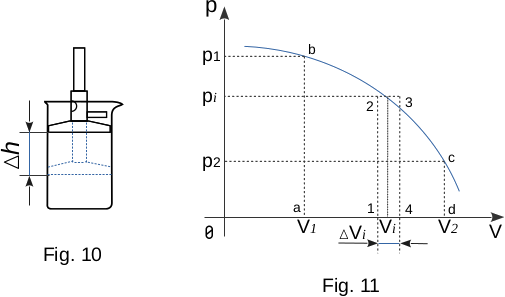
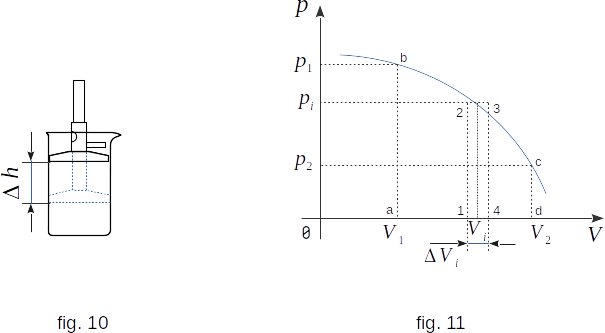
June 27 2020

diff --git a/book3/chapter1/book3-12.html b/book3/chapter1/book3-12.html
@@ -63,11 +63,12 @@
 
         <p>Now we will learn more about the process of changing the state of the body or body system. There are two significantly different types of effects that lead to changes in the state of bodies. First of these is to perform the work.</p>
 
-        <div class="mx-auto d-block mt-5 mb-4" style="width: 30rem;">
-          <img src="../common/img/book3-pic6.png" class="card-img-top" alt="...">
-        </div>
+        <br>
+        <div class="mx-auto d-block mt-4 mb-4 text-center">
+          <img src="../common/img/book3-pic6.png" class="img-fluid" alt="...">
+        </div><br>
 
-        <p>Assume that the system under consideration is the gas in the cylinder under the piston (Fig. 10). You can change the volume, pressure and temperature of the gas by moving the piston down. In this case, the change in gas state is a result of macroscopic movement of the body (piston) acting on the system. In this case, the force with which the piston acts on the gas, performs the work. Let's calculate this work.<br>From the gas side, the force acts on the piston</p>
+        <p>Assume that the system under consideration is the gas in the cylinder under the piston (fig. 10). You can change the volume, pressure and temperature of the gas by moving the piston down. In this case, the change in gas state is a result of macroscopic movement of the body (piston) acting on the system. In this case, the force with which the piston acts on the gas, performs the work. Let's calculate this work.<br>From the gas side, the force acts on the piston</p>
 
         <p><h5 class="text-center">\( F = pA \) <span class="float-right">(1-13)</span></h5></p>
 
@@ -89,7 +90,7 @@
 
         <p>To calculate the work when changing the volume to a finite (not as small as we like) value we need to sum up the elementary work (1-14). Only if \( p = const \) equation (1-14) is valid for large volume changes.</p>
 
-        <p>The work that the body does when it changes volume can be understood visually. If you draw a graph of the volume dependence from pressure (Fig. 11), the area limited by this graph, with the axis \( V \) and the sections \( ab \) and \( cd \) which equal to the pressures \( p1 \) in the initial and \( p2 \) in the final states, will be numerically equal to the work with the volume change from \( V_1 \) to \( V_2 \). In fact, the work at small changes in the volume \( \Delta V \) is numerically equal to the area of the rectangle \( 1-2-3-4 \), because \( W'_i = p_i \Delta V_i \) (where \(p_i \) is pressure at volume \( V_i \)). The full area of the figure \( a-b-c-d \) can be considered as the sum of the areas of these elementary rectangles.</p>
+        <p>The work that the body does when it changes volume can be understood visually. If you draw a graph of the volume dependence from pressure (fig. 11), the area limited by this graph, with the axis \( V \) and the sections \( ab \) and \( cd \) which equal to the pressures \( p1 \) in the initial and \( p2 \) in the final states, will be numerically equal to the work with the volume change from \( V_1 \) to \( V_2 \). In fact, the work at small changes in the volume \( \Delta V \) is numerically equal to the area of the rectangle \( 1-2-3-4 \), because \( W'_i = p_i \Delta V_i \) (where \(p_i \) is pressure at volume \( V_i \)). The full area of the figure \( a-b-c-d \) can be considered as the sum of the areas of these elementary rectangles.</p>
 
       </div><!-- /.blog-post -->
 
@@ -125,6 +126,12 @@
     </aside><!-- /.blog-sidebar -->
 
   </div><!-- /.row -->
+
+  <div class="blog-pagination">
+    <div class="btn"><a href="../chapter1/book3-11.html" class="text-muted">11. Equilibrium and non-equilibrium processes \(\ll\)</a></div>
+    <div class="btn"><a href="../chapter1/book3-12.html" class="text-muted">12. Work in Thermodynamics</a></div>
+    <div class="btn"><a href="../chapter1/book3-13.html" class="text-muted">\(\gg\) 13. Quantity of heat transferred</a></div>
+  </div>
 
 </main><!-- /.container -->
 

diff --git a/book3/chapter1/book3-10.html b/book3/chapter1/book3-10.html
@@ -139,7 +139,7 @@
   <p class="mb-2"><a href="../chapter1/book3-8.html" class="text-muted">8. Avogadro law</a></p>
   <p class="mb-2"><a href="../chapter1/book3-9.html" class="text-muted">9. Absolute temperature</a></p>
   <p class="mb-2"><a href="../chapter1/book3-10.html" class="text-info">10. Ideal gas equation of state</a></p>
-  <p class="mb-2"><a href="../chapter1/book3-11.html" class="text-muted">11. Equilibrium (reversible) and non-equilibrium (irreversible) processes</a></p>
+  <p class="mb-2"><a href="../chapter1/book3-11.html" class="text-muted">11. Equilibrium and non-equilibrium processes</a></p>
   <p class="mb-2"><a href="../chapter1/book3-12.html" class="text-muted">12. Work in Thermodynamics</a></p>
   <p class="mb-2"><a href="../chapter1/book3-13.html" class="text-muted">13. Quantity of heat transferred</a></p>
   <p class="mb-2"><a href="../chapter1/book3-14.html" class="text-muted">14. Heat capacity</a></p>
@@ -156,6 +156,12 @@
     </aside><!-- /.blog-sidebar -->
 
   </div><!-- /.row -->
+
+  <div class="blog-pagination">
+    <div class="btn"><a href="../chapter1/book3-9.html" class="text-muted">9. Absolute temperature \(\ll\)</a></div>
+    <div class="btn"><a href="../chapter1/book3-10.html" class="text-muted">10. Ideal gas equation of state</a></div>
+    <div class="btn"><a href="../chapter1/book3-11.html" class="text-muted">\(\gg\) 11. Equilibrium and non-equilibrium processes</a></div>
+  </div>
 
 </main><!-- /.container -->
 

diff --git a/book3/chapter1/book3-5.html b/book3/chapter1/book3-5.html
@@ -107,7 +107,7 @@
   <p class="mb-2"><a href="../chapter1/book3-8.html" class="text-muted">8. Avogadro law</a></p>
   <p class="mb-2"><a href="../chapter1/book3-9.html" class="text-muted">9. Absolute temperature</a></p>
   <p class="mb-2"><a href="../chapter1/book3-10.html" class="text-muted">10. Ideal gas equation of state</a></p>
-  <p class="mb-2"><a href="../chapter1/book3-11.html" class="text-muted">11. Equilibrium (reversible) and non-equilibrium (irreversible) processes</a></p>
+  <p class="mb-2"><a href="../chapter1/book3-11.html" class="text-muted">11. Equilibrium and non-equilibrium processes</a></p>
   <p class="mb-2"><a href="../chapter1/book3-12.html" class="text-muted">12. Work in Thermodynamics</a></p>
   <p class="mb-2"><a href="../chapter1/book3-13.html" class="text-muted">13. Quantity of heat transferred</a></p>
   <p class="mb-2"><a href="../chapter1/book3-14.html" class="text-muted">14. Heat capacity</a></p>
@@ -124,6 +124,12 @@
     </aside><!-- /.blog-sidebar -->
 
   </div><!-- /.row -->
+
+  <div class="blog-pagination">
+    <div class="btn"><a href="../chapter1/book3-4.html" class="text-muted">4. Equation of state \(\ll\)</a></div>
+    <div class="btn"><a href="../chapter1/book3-5.html" class="text-muted">5. Gas laws. Boyle-Mariotte law</a></div>
+    <div class="btn"><a href="../chapter1/book3-6.html" class="text-muted">\(\gg\) 6. Charles's law</a></div>
+  </div>
 
 </main><!-- /.container -->
 

diff --git a/book3/chapter1/book3-9.html b/book3/chapter1/book3-9.html
@@ -93,7 +93,7 @@
   <p class="mb-2"><a href="../chapter1/book3-8.html" class="text-muted">8. Avogadro law</a></p>
   <p class="mb-2"><a href="../chapter1/book3-9.html" class="text-info">9. Absolute temperature</a></p>
   <p class="mb-2"><a href="../chapter1/book3-10.html" class="text-muted">10. Ideal gas equation of state</a></p>
-  <p class="mb-2"><a href="../chapter1/book3-11.html" class="text-muted">11. Equilibrium (reversible) and non-equilibrium (irreversible) processes</a></p>
+  <p class="mb-2"><a href="../chapter1/book3-11.html" class="text-muted">11. Equilibrium and non-equilibrium processes</a></p>
   <p class="mb-2"><a href="../chapter1/book3-12.html" class="text-muted">12. Work in Thermodynamics</a></p>
   <p class="mb-2"><a href="../chapter1/book3-13.html" class="text-muted">13. Quantity of heat transferred</a></p>
   <p class="mb-2"><a href="../chapter1/book3-14.html" class="text-muted">14. Heat capacity</a></p>
@@ -110,6 +110,12 @@
     </aside><!-- /.blog-sidebar -->
 
   </div><!-- /.row -->
+
+  <div class="blog-pagination">
+    <div class="btn"><a href="../chapter1/book3-8.html" class="text-muted">8. Avogadro law \(\ll\)</a></div>
+    <div class="btn"><a href="../chapter1/book3-9.html" class="text-muted">9. Absolute temperature</a></div>
+    <div class="btn"><a href="../chapter1/book3-10.html" class="text-muted">\(\gg\) 10. Ideal gas equation of state</a></div>
+  </div>
 
 </main><!-- /.container -->
 

diff --git a/book3/chapter1/book3-6.html b/book3/chapter1/book3-6.html
@@ -102,7 +102,7 @@
   <p class="mb-2"><a href="../chapter1/book3-8.html" class="text-muted">8. Avogadro law</a></p>
   <p class="mb-2"><a href="../chapter1/book3-9.html" class="text-muted">9. Absolute temperature</a></p>
   <p class="mb-2"><a href="../chapter1/book3-10.html" class="text-muted">10. Ideal gas equation of state</a></p>
-  <p class="mb-2"><a href="../chapter1/book3-11.html" class="text-muted">11. Equilibrium (reversible) and non-equilibrium (irreversible) processes</a></p>
+  <p class="mb-2"><a href="../chapter1/book3-11.html" class="text-muted">11. Equilibrium and non-equilibrium processes</a></p>
   <p class="mb-2"><a href="../chapter1/book3-12.html" class="text-muted">12. Work in Thermodynamics</a></p>
   <p class="mb-2"><a href="../chapter1/book3-13.html" class="text-muted">13. Quantity of heat transferred</a></p>
   <p class="mb-2"><a href="../chapter1/book3-14.html" class="text-muted">14. Heat capacity</a></p>
@@ -119,6 +119,12 @@
     </aside><!-- /.blog-sidebar -->
 
   </div><!-- /.row -->
+
+  <div class="blog-pagination">
+    <div class="btn"><a href="../chapter1/book3-5.html" class="text-muted">5. Gas laws. Boyle-Mariotte law \(\ll\)</a></div>
+    <div class="btn"><a href="../chapter1/book3-6.html" class="text-muted">6. Charles's law</a></div>
+    <div class="btn"><a href="../chapter1/book3-7.html" class="text-muted">\(\gg\) 7. Dalton's law</a></div>
+  </div>
 
 </main><!-- /.container -->
 

diff --git a/book3/chapter1/book3-8.html b/book3/chapter1/book3-8.html
@@ -125,7 +125,7 @@
   <p class="mb-2"><a href="../chapter1/book3-8.html" class="text-info">8. Avogadro law</a></p>
   <p class="mb-2"><a href="../chapter1/book3-9.html" class="text-muted">9. Absolute temperature</a></p>
   <p class="mb-2"><a href="../chapter1/book3-10.html" class="text-muted">10. Ideal gas equation of state</a></p>
-  <p class="mb-2"><a href="../chapter1/book3-11.html" class="text-muted">11. Equilibrium (reversible) and non-equilibrium (irreversible) processes</a></p>
+  <p class="mb-2"><a href="../chapter1/book3-11.html" class="text-muted">11. Equilibrium and non-equilibrium processes</a></p>
   <p class="mb-2"><a href="../chapter1/book3-12.html" class="text-muted">12. Work in Thermodynamics</a></p>
   <p class="mb-2"><a href="../chapter1/book3-13.html" class="text-muted">13. Quantity of heat transferred</a></p>
   <p class="mb-2"><a href="../chapter1/book3-14.html" class="text-muted">14. Heat capacity</a></p>
@@ -142,6 +142,12 @@
     </aside><!-- /.blog-sidebar -->
 
   </div><!-- /.row -->
+
+  <div class="blog-pagination">
+    <div class="btn"><a href="../chapter1/book3-7.html" class="text-muted">7. Dalton's law \(\ll\)</a></div>
+    <div class="btn"><a href="../chapter1/book3-8.html" class="text-muted">8. Avogadro law</a></div>
+    <div class="btn"><a href="../chapter1/book3-9.html" class="text-muted">\(\gg\) 9. Absolute temperature</a></div>
+  </div>
 
 </main><!-- /.container -->
 

diff --git a/book3/chapter1/book3-7.html b/book3/chapter1/book3-7.html
@@ -86,7 +86,7 @@
   <p class="mb-2"><a href="../chapter1/book3-8.html" class="text-muted">8. Avogadro law</a></p>
   <p class="mb-2"><a href="../chapter1/book3-9.html" class="text-muted">9. Absolute temperature</a></p>
   <p class="mb-2"><a href="../chapter1/book3-10.html" class="text-muted">10. Ideal gas equation of state</a></p>
-  <p class="mb-2"><a href="../chapter1/book3-11.html" class="text-muted">11. Equilibrium (reversible) and non-equilibrium (irreversible) processes</a></p>
+  <p class="mb-2"><a href="../chapter1/book3-11.html" class="text-muted">11. Equilibrium and non-equilibrium processes</a></p>
   <p class="mb-2"><a href="../chapter1/book3-12.html" class="text-muted">12. Work in Thermodynamics</a></p>
   <p class="mb-2"><a href="../chapter1/book3-13.html" class="text-muted">13. Quantity of heat transferred</a></p>
   <p class="mb-2"><a href="../chapter1/book3-14.html" class="text-muted">14. Heat capacity</a></p>
@@ -103,6 +103,12 @@
     </aside><!-- /.blog-sidebar -->
 
   </div><!-- /.row -->
+
+  <div class="blog-pagination">
+    <div class="btn"><a href="../chapter1/book3-6.html" class="text-muted">6. Charles's law \(\ll\)</a></div>
+    <div class="btn"><a href="../chapter1/book3-7.html" class="text-muted">7. Dalton's law</a></div>
+    <div class="btn"><a href="../chapter1/book3-8.html" class="text-muted">\(\gg\) 8. Avogadro law</a></div>
+  </div>
 
 </main><!-- /.container -->
 

diff --git a/book3/chapter1/book3-2.html b/book3/chapter1/book3-2.html
@@ -100,7 +100,7 @@
   <p class="mb-2"><a href="../chapter1/book3-8.html" class="text-muted">8. Avogadro law</a></p>
   <p class="mb-2"><a href="../chapter1/book3-9.html" class="text-muted">9. Absolute temperature</a></p>
   <p class="mb-2"><a href="../chapter1/book3-10.html" class="text-muted">10. Ideal gas equation of state</a></p>
-  <p class="mb-2"><a href="../chapter1/book3-11.html" class="text-muted">11. Equilibrium (reversible) and non-equilibrium (irreversible) processes</a></p>
+  <p class="mb-2"><a href="../chapter1/book3-11.html" class="text-muted">11. Equilibrium and non-equilibrium processes</a></p>
   <p class="mb-2"><a href="../chapter1/book3-12.html" class="text-muted">12. Work in Thermodynamics</a></p>
   <p class="mb-2"><a href="../chapter1/book3-13.html" class="text-muted">13. Quantity of heat transferred</a></p>
   <p class="mb-2"><a href="../chapter1/book3-14.html" class="text-muted">14. Heat capacity</a></p>

diff --git a/book3/chapter1/book3-3.html b/book3/chapter1/book3-3.html
@@ -105,7 +105,7 @@
   <p class="mb-2"><a href="../chapter1/book3-8.html" class="text-muted">8. Avogadro law</a></p>
   <p class="mb-2"><a href="../chapter1/book3-9.html" class="text-muted">9. Absolute temperature</a></p>
   <p class="mb-2"><a href="../chapter1/book3-10.html" class="text-muted">10. Ideal gas equation of state</a></p>
-  <p class="mb-2"><a href="../chapter1/book3-11.html" class="text-muted">11. Equilibrium (reversible) and non-equilibrium (irreversible) processes</a></p>
+  <p class="mb-2"><a href="../chapter1/book3-11.html" class="text-muted">11. Equilibrium and non-equilibrium processes</a></p>
   <p class="mb-2"><a href="../chapter1/book3-12.html" class="text-muted">12. Work in Thermodynamics</a></p>
   <p class="mb-2"><a href="../chapter1/book3-13.html" class="text-muted">13. Quantity of heat transferred</a></p>
   <p class="mb-2"><a href="../chapter1/book3-14.html" class="text-muted">14. Heat capacity</a></p>

diff --git a/book3/chapter1/book3-4.html b/book3/chapter1/book3-4.html
@@ -106,7 +106,7 @@
   <p class="mb-2"><a href="../chapter1/book3-8.html" class="text-muted">8. Avogadro law</a></p>
   <p class="mb-2"><a href="../chapter1/book3-9.html" class="text-muted">9. Absolute temperature</a></p>
   <p class="mb-2"><a href="../chapter1/book3-10.html" class="text-muted">10. Ideal gas equation of state</a></p>
-  <p class="mb-2"><a href="../chapter1/book3-11.html" class="text-muted">11. Equilibrium (reversible) and non-equilibrium (irreversible) processes</a></p>
+  <p class="mb-2"><a href="../chapter1/book3-11.html" class="text-muted">11. Equilibrium and non-equilibrium processes</a></p>
   <p class="mb-2"><a href="../chapter1/book3-12.html" class="text-muted">12. Work in Thermodynamics</a></p>
   <p class="mb-2"><a href="../chapter1/book3-13.html" class="text-muted">13. Quantity of heat transferred</a></p>
   <p class="mb-2"><a href="../chapter1/book3-14.html" class="text-muted">14. Heat capacity</a></p>

diff --git a/book3/chapter1/book3-1.html b/book3/chapter1/book3-1.html
@@ -95,7 +95,7 @@
   <p class="mb-2"><a href="../chapter1/book3-8.html" class="text-muted">8. Avogadro law</a></p>
   <p class="mb-2"><a href="../chapter1/book3-9.html" class="text-muted">9. Absolute temperature</a></p>
   <p class="mb-2"><a href="../chapter1/book3-10.html" class="text-muted">10. Ideal gas equation of state</a></p>
-  <p class="mb-2"><a href="../chapter1/book3-11.html" class="text-muted">11. Equilibrium (reversible) and non-equilibrium (irreversible) processes</a></p>
+  <p class="mb-2"><a href="../chapter1/book3-11.html" class="text-muted">11. Equilibrium and non-equilibrium processes</a></p>
   <p class="mb-2"><a href="../chapter1/book3-12.html" class="text-muted">12. Work in Thermodynamics</a></p>
   <p class="mb-2"><a href="../chapter1/book3-13.html" class="text-muted">13. Quantity of heat transferred</a></p>
   <p class="mb-2"><a href="../chapter1/book3-14.html" class="text-muted">14. Heat capacity</a></p>

diff --git a/book3/chapter11/book3-129.html b/book3/chapter11/book3-129.html
@@ -75,7 +75,7 @@
 
         <p><h4 class="text-center">\( r \,= \,\frac{m\,\upsilon}{q\,B} \) <span class="float-right">(11-5)</span></h4></p><br>
 
-        <p><em>Therefore, by measuring \(\mathbf{r}\) and knowing the values of \(\mathbf{v}\) and \(\mathbf{B}\), we can measure the specific charge \(\mathbf{\frac{q}{m}}\) of different particles.</em><br>
+        <p><em>Therefore, by measuring \(\mathbf{r}\) and knowing the values of \(\mathbf{\upsilon}\) and \(\mathbf{B}\), we can measure the specific charge \(\mathbf{\frac{q}{m}}\) of different particles.</em><br>
         From equation \((11-5)\) we can see that the time of passage of a given particle of a semi-circle depends only on the properties of the particle and the magnitude of the magnetic field induction. In fact,</p>
 
         <p><h4 class="text-center">\( \Delta{t} \,= \,\frac{\pi\,r}{\upsilon} \,= \,\frac{\pi\,m}{q\,B} \)</h4></p>
